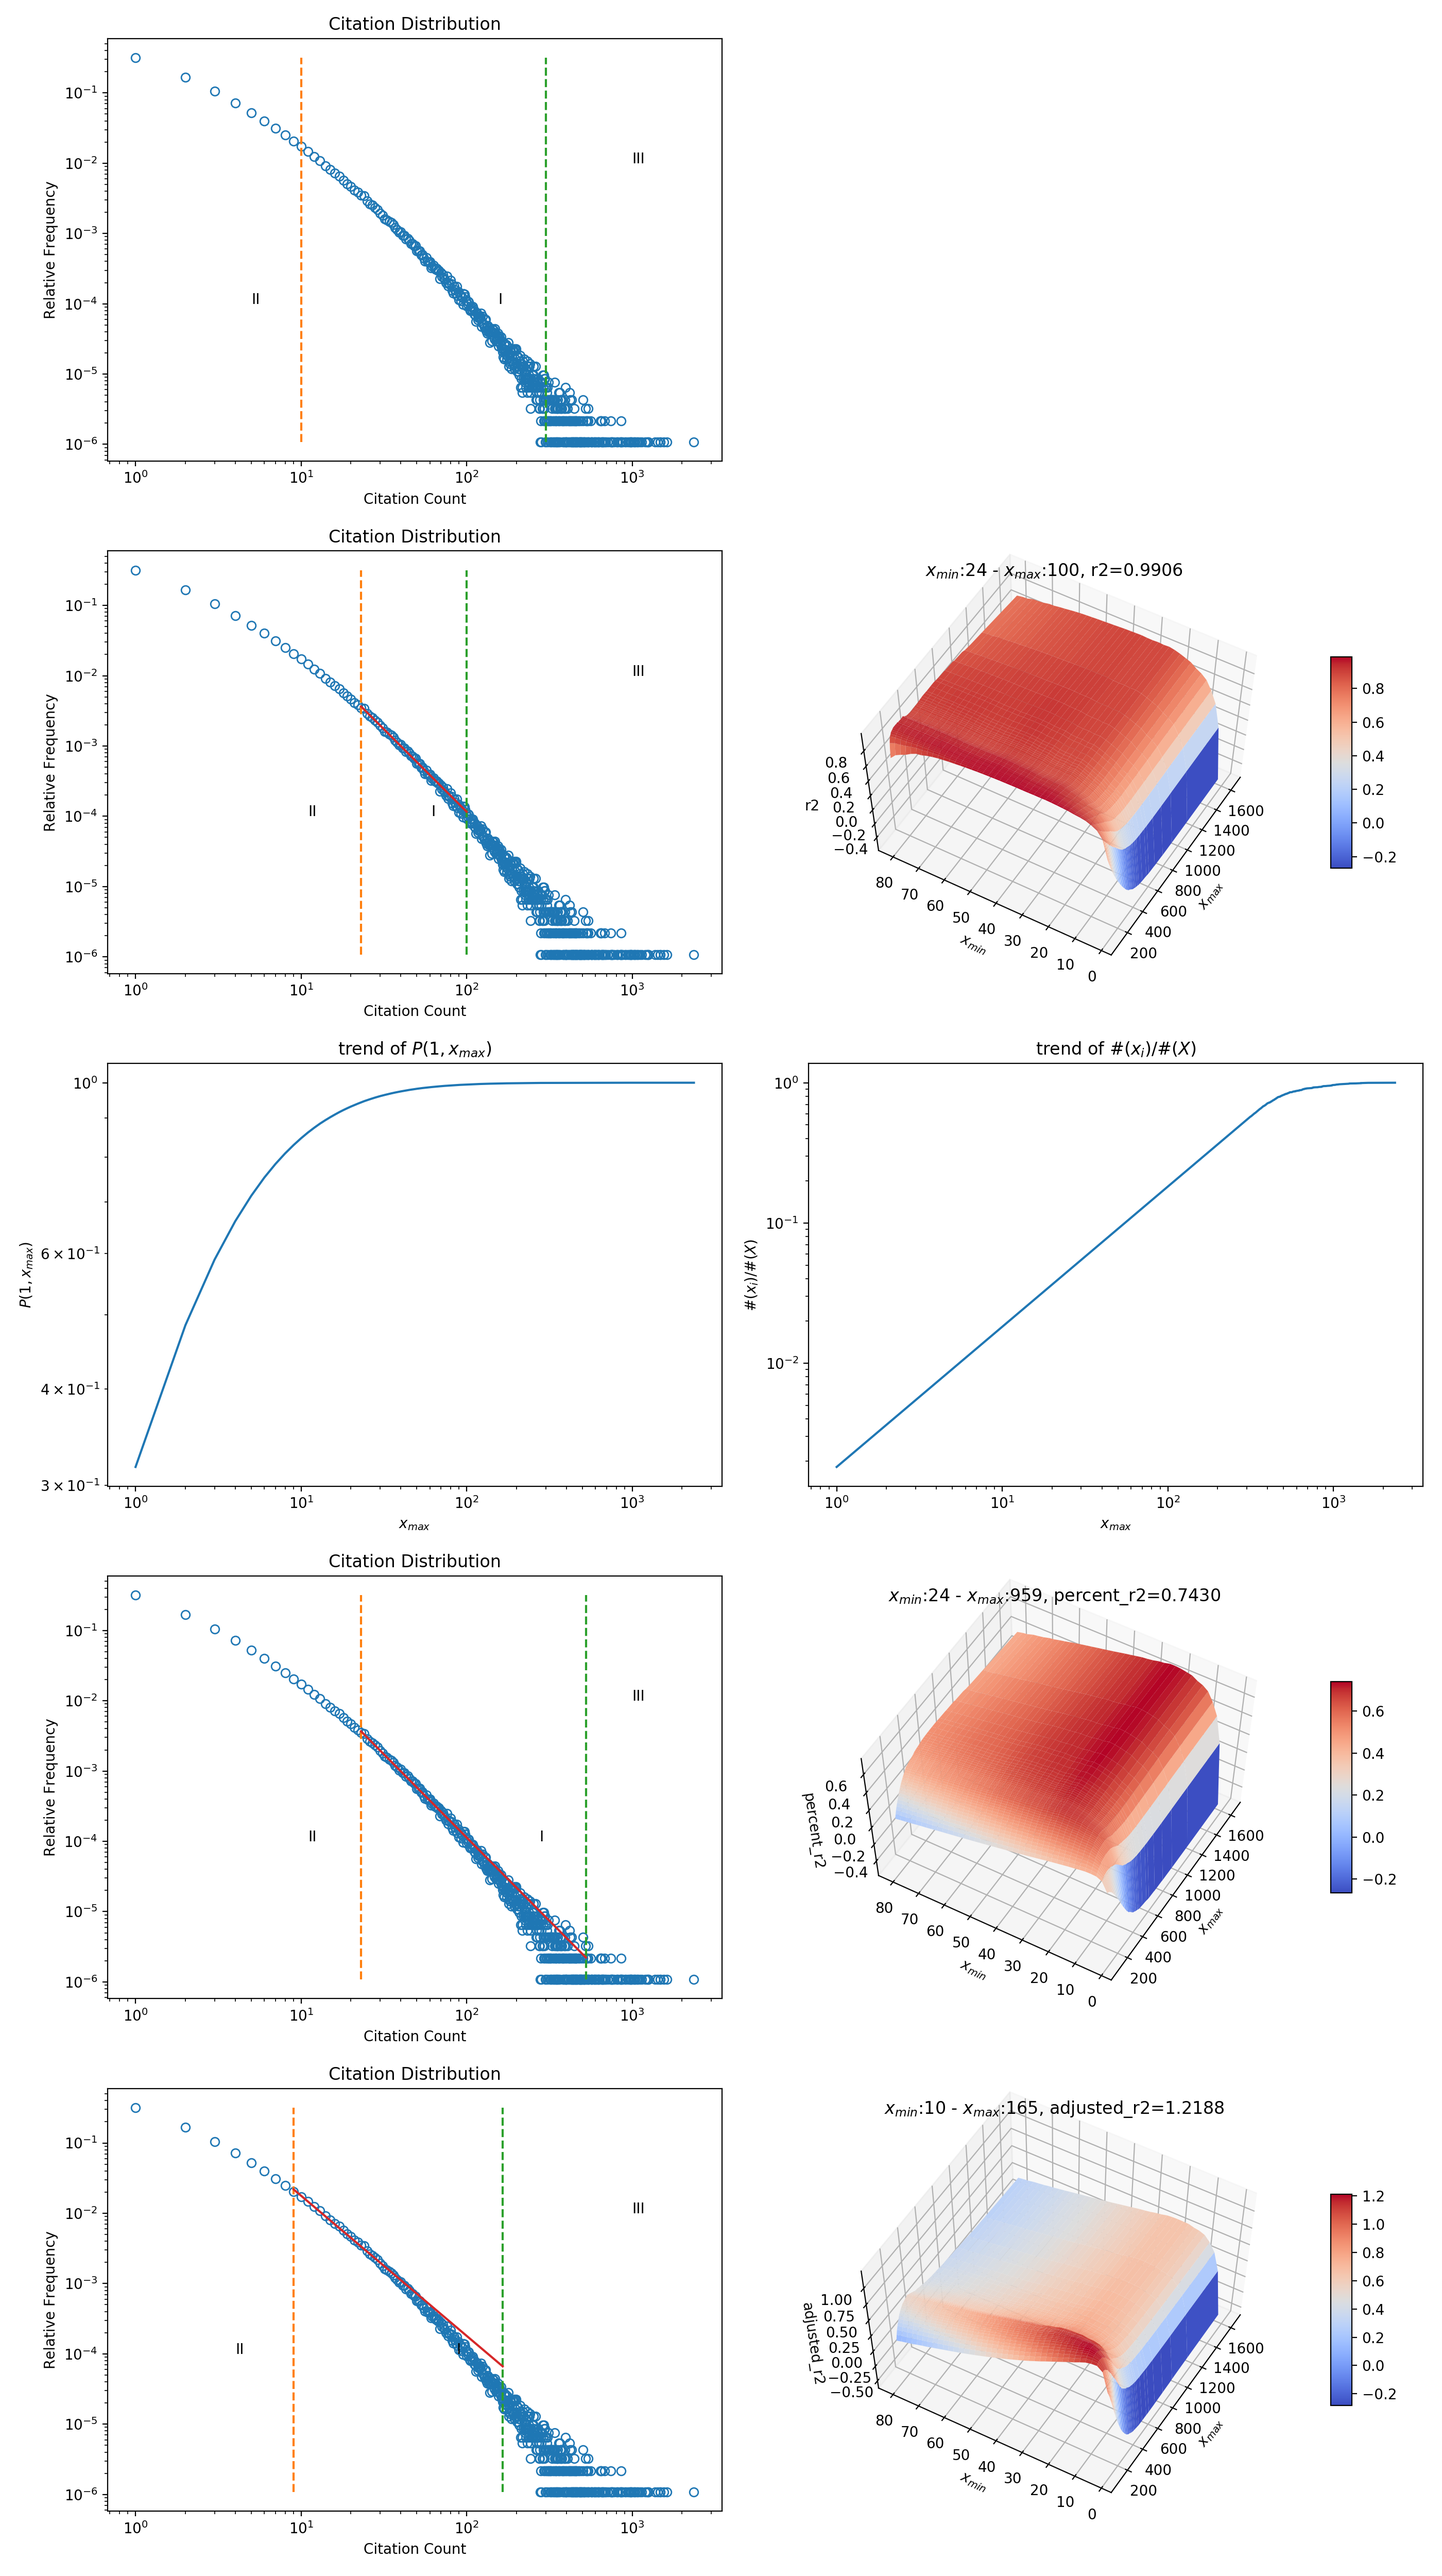
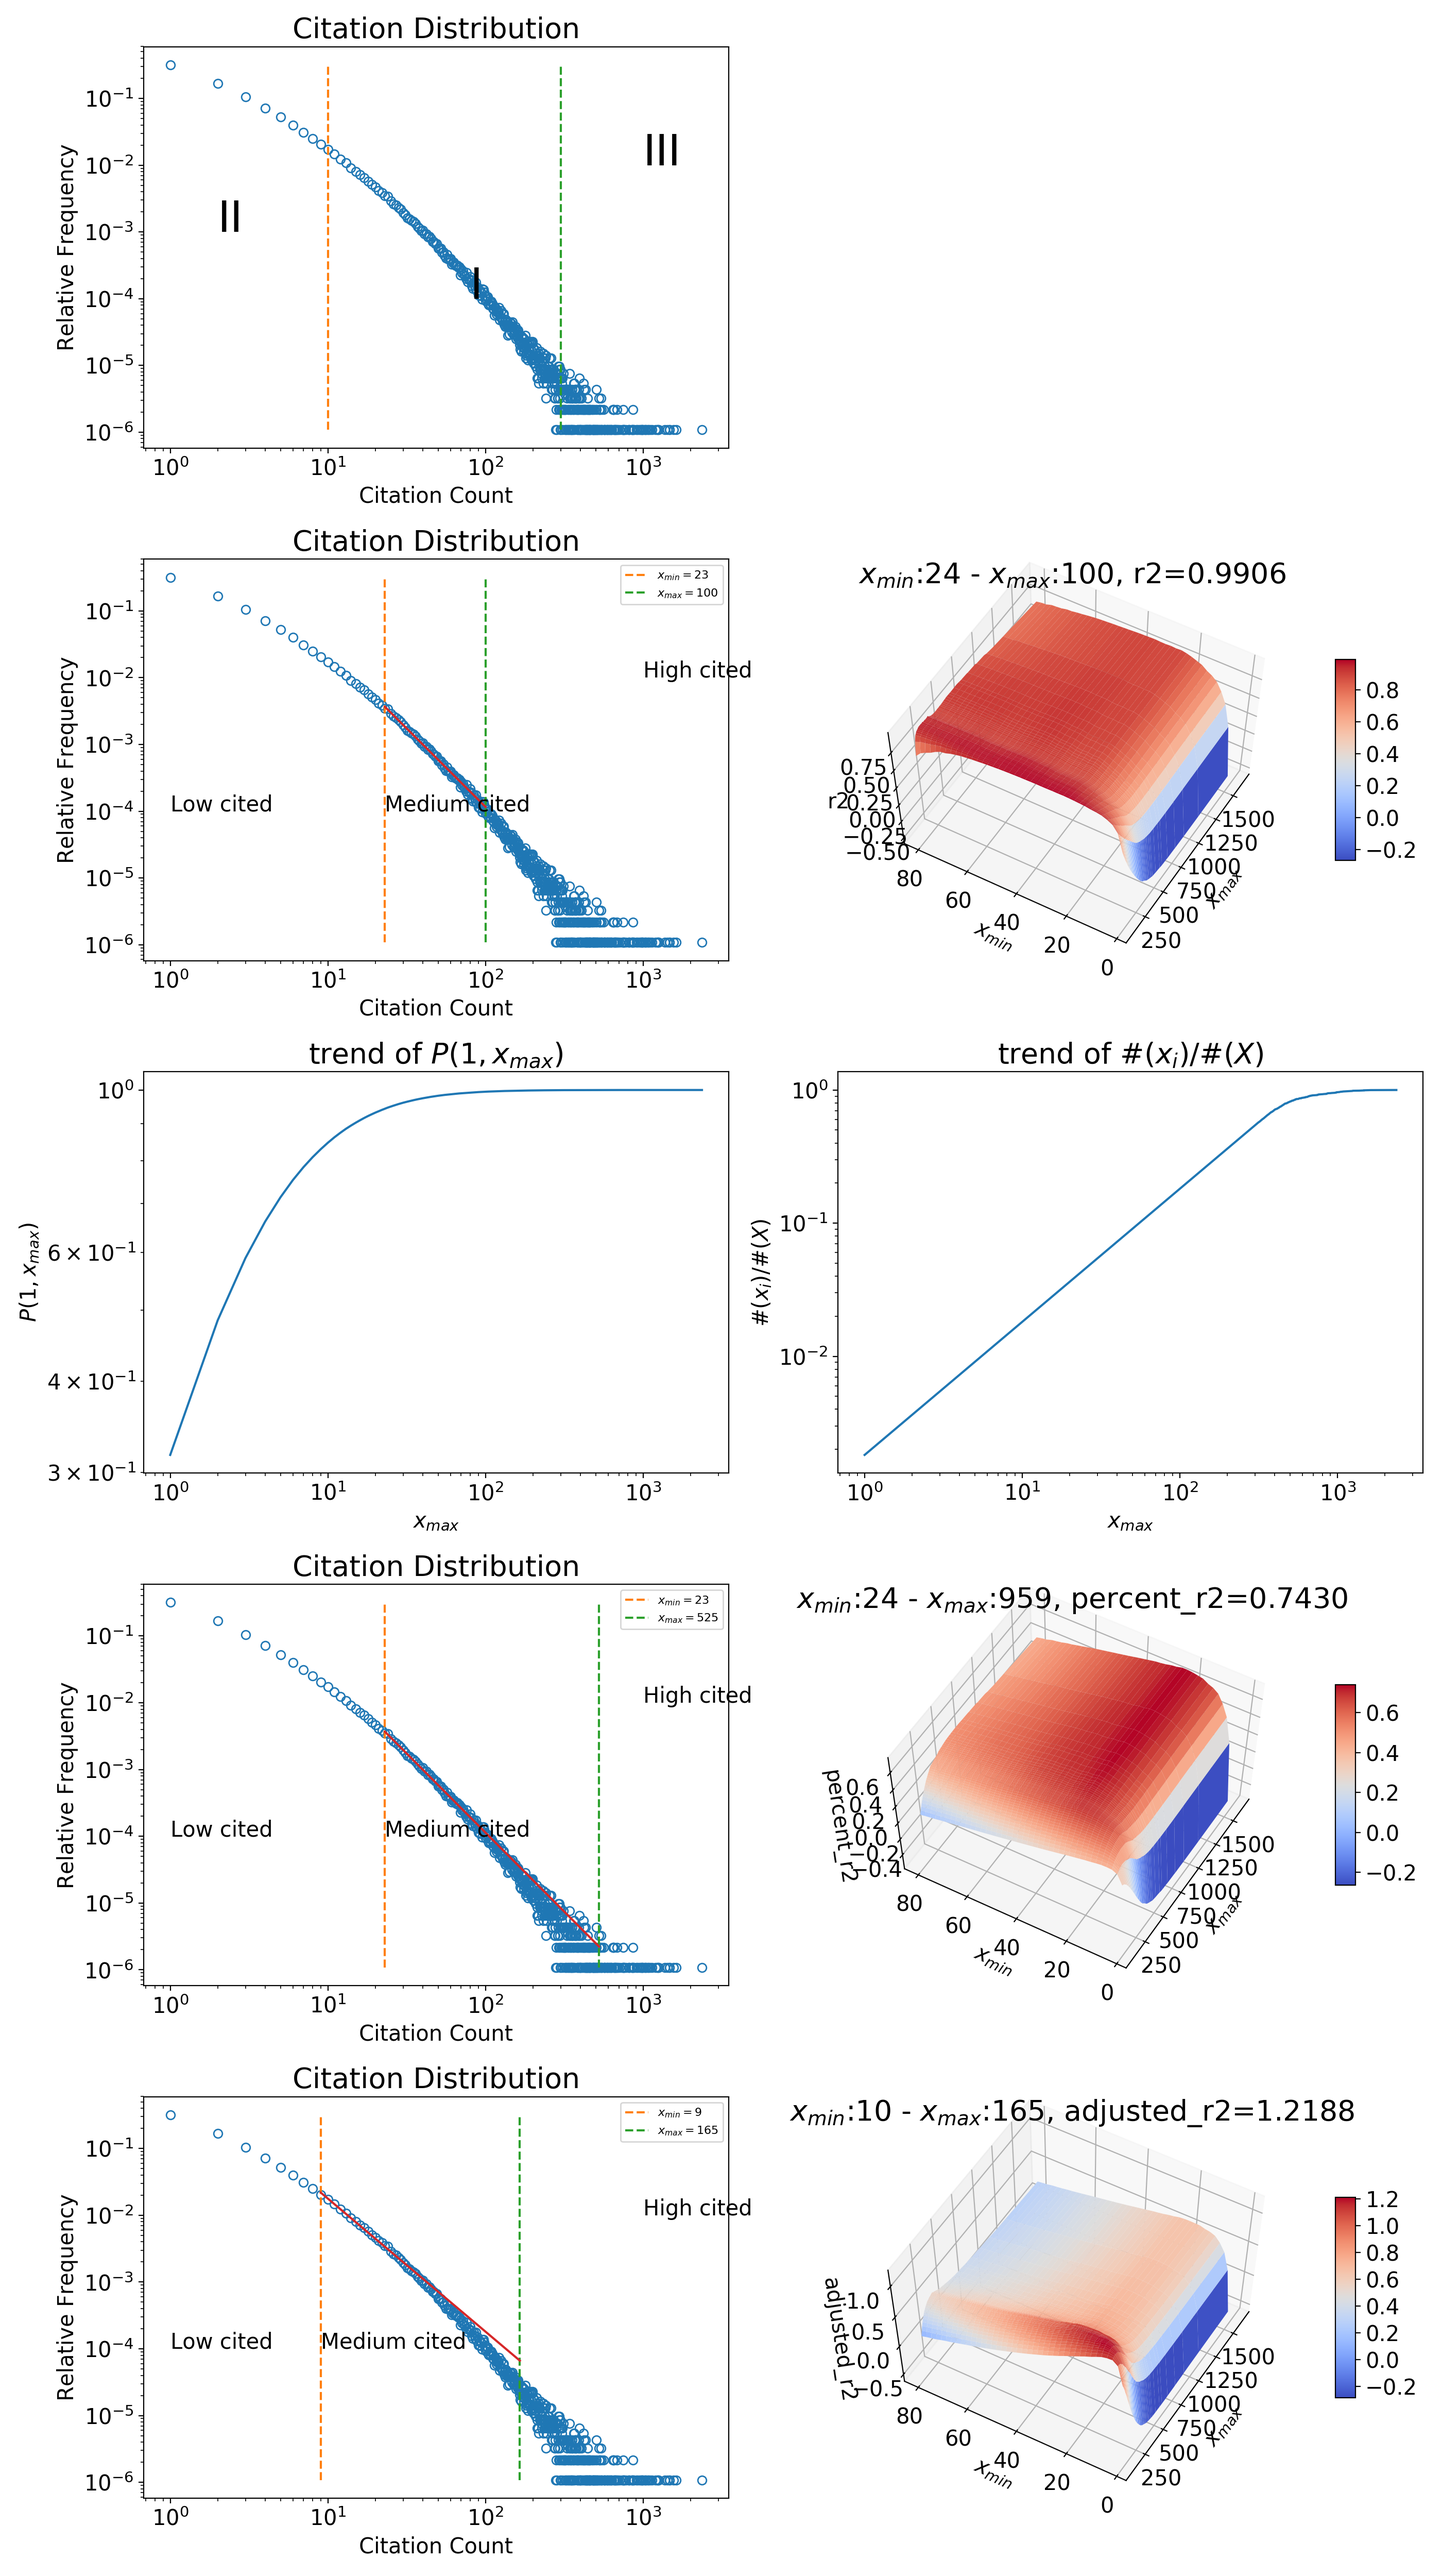
add

diff --git a/main.py b/main.py
@@ -10,7 +10,7 @@ import json
 from collections import defaultdict
 from collections import Counter
 import matplotlib
-# matplotlib.use('Agg')
+matplotlib.use('Agg')
 import matplotlib.pyplot as plt
 from scipy.optimize import curve_fit
 from sklearn.metrics import r2_score
@@ -140,16 +140,16 @@ def plot_citation_distribution(ax,xs,ys,xmin,xmax,_min_y,_max_y,isFinal=False):
     if not isFinal:
         ax.plot([xmin]*10, np.linspace(_min_y, _max_y, 10),'--')
         ax.plot([xmax]*10, np.linspace(_min_y, _max_y, 10),'--')
-        ax.text(xmin/2,10**-4,'II')
-        ax.text((xmin+xmax)/2,10**-4,'I')
-        ax.text(1000,10**-2,'III')
+        ax.text(2,10**-3,'II',fontsize=30)
+        ax.text(80,10**-4,'I',fontsize=30)
+        ax.text(1000,10**-2,'III',fontsize=30)
 
     else:
         ax.plot([xmin]*10, np.linspace(_min_y, _max_y, 10),'--',label='$x_{min}$'+'$={:}$'.format(xmin))
         ax.plot([xmax]*10, np.linspace(_min_y, _max_y, 10),'--',label='$x_{max}$'+'$={:}$'.format(xmax))
-        ax.text(xmin/2,10**-4,'Low cited')
-        ax.text((xmin+xmax)/2,10**-4,'Medium cited')
-        ax.text(1000,10**-2,'High cited')
+        ax.text(1,10**-4,'Low cited',fontsize=15)
+        ax.text(xmin,10**-4,'Medium cited',fontsize=15)
+        ax.text(1000,10**-2,'High cited',fontsize=15)
         ax.legend()
 
     ax.set_title('Citation Distribution')
